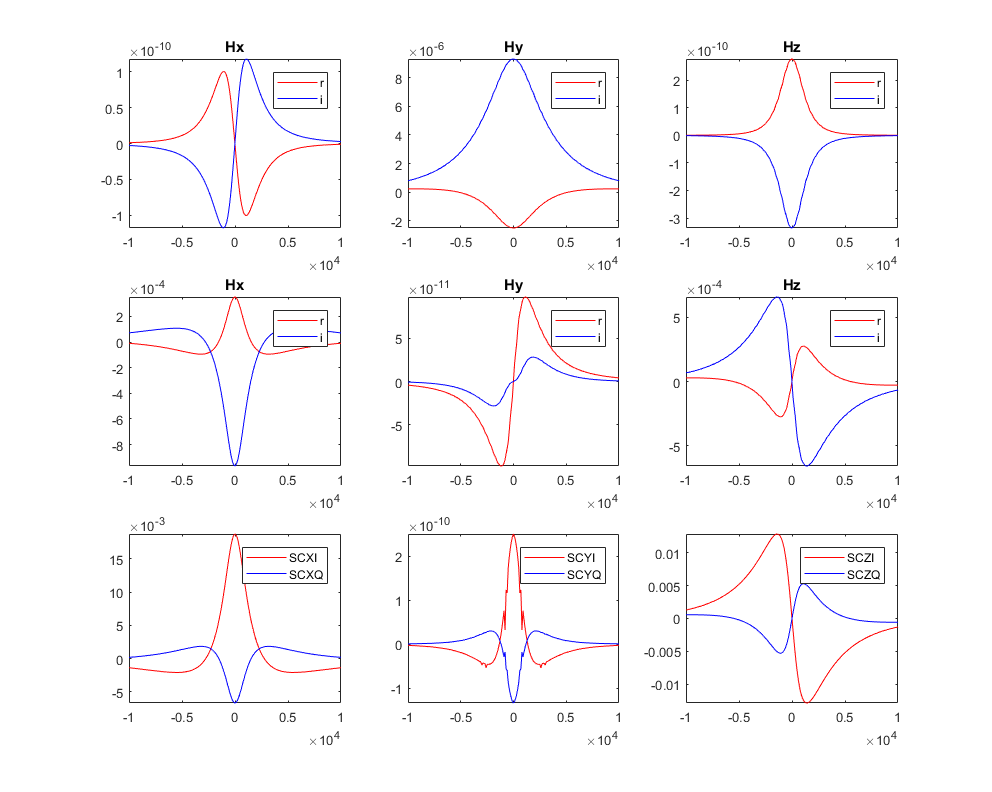
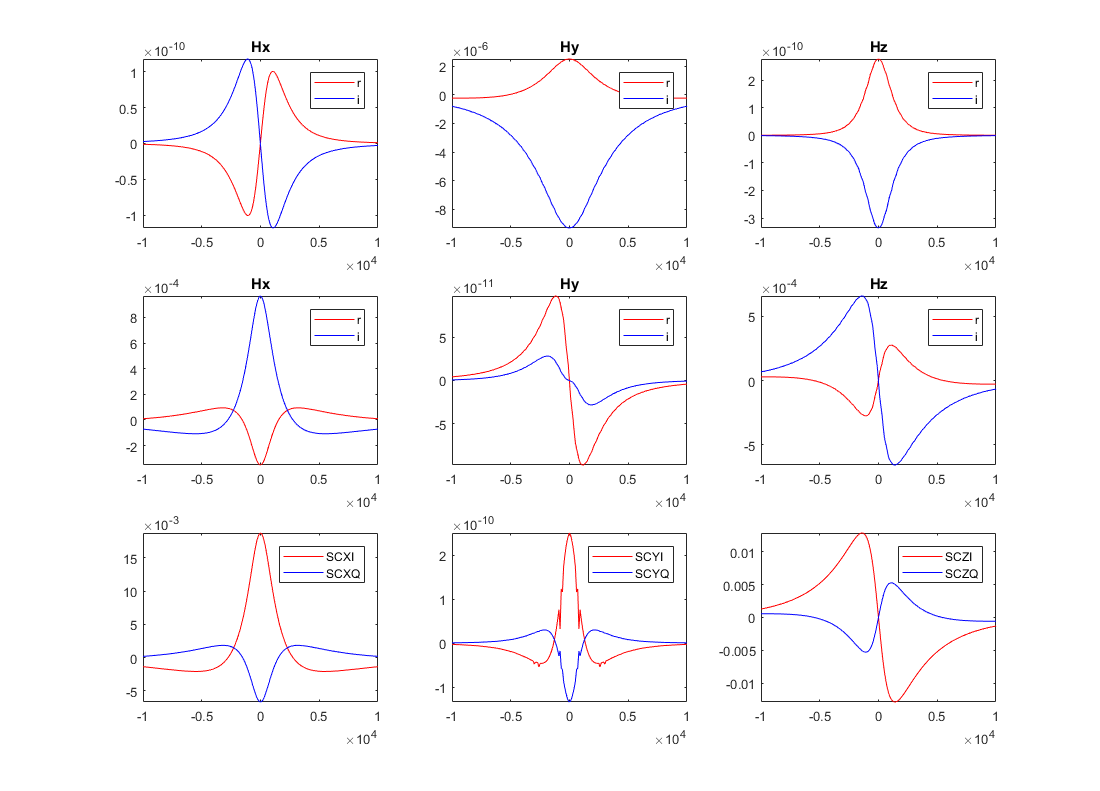
stuff

diff --git a/examples/thin_plate/mesh2/plotdata.m b/examples/thin_plate/mesh2/plotdata.m
@@ -31,6 +31,9 @@ d1(:,4:end) = -(d1(:,4:end) - d1hs(:,4:end));
 d2(:,4:end) = -(d2(:,4:end) - d2hs(:,4:end));
 
 
+d1(:,4:7) = -d1(:,4:7);
+d2(:,4:7) = -d2(:,4:7);
+
 figure(1)
 
 
